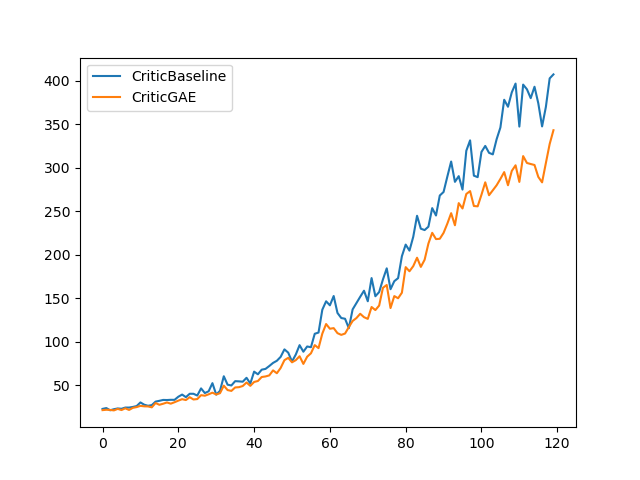
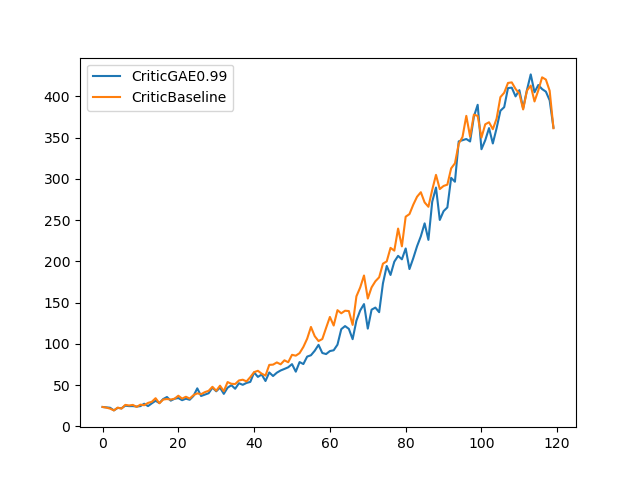
pg_td refactored

diff --git a/solutions/cartpole_solve_pg.py b/solutions/cartpole_solve_pg.py
@@ -1,32 +1,43 @@
 import gym
 import matplotlib.pyplot as plt
-from RL.solvers import MCPG, MCPGBaseline
+from RL.solvers import MCAgent, Actor, CriticBaseline, CriticGAE
 import numpy as np
-
+import torch.nn as nn
 
 env = gym.make("CartPole-v1")
 env._max_episode_steps = 1000
 fig = plt.figure()
-
 all_rewards = []
-for b in range(20):
-    agent = MCPG(env, lr=0.03, gamma=0.99, batch_size=100)
-    total_rewards = []
-    n_episodes = 100
-    for episode in range(n_episodes):
-        observation = env.reset()
-        done = False
-        reward = None
-        while not done:
-            action = agent.step(observation, reward)
-            observation, reward, done, info = env.step(action)
-        total_reward = agent.update(reward)
-        total_rewards.append(total_reward)
-        print(episode + 1, total_reward)
-    all_rewards.append(total_rewards)
-env.close()
-mean_results = np.mean(np.stack(all_rewards), axis=0)
-plt.plot(mean_results, label=agent.name)
+
+n_inputs = env.observation_space.shape[0]
+n_outputs = env.action_space.n
+for c in [CriticGAE, CriticBaseline]:
+    for b in range(50):
+        actor = Actor(n_inputs, n_outputs)
+        # critic = CriticGAE(n_inputs, gae=0.92)
+        critic = c(n_inputs)
+        agent = MCAgent(
+            actor, critic, alr=0.03, clr=0.1, batch_size=100, normalize=False
+        )
+        total_rewards = []
+        n_episodes = 120
+        for episode in range(n_episodes):
+            observation = env.reset()
+            done = False
+            reward = None
+            rewards = []
+            while not done:
+                action = agent.step(observation, reward)
+                observation, reward, done, info = env.step(action)
+                rewards.append(reward)
+            agent.step(observation, reward, done)
+            total_reward = sum(rewards)
+            total_rewards.append(total_reward)
+            print(episode + 1, total_reward)
+        all_rewards.append(total_rewards)
+    mean_results = np.mean(np.stack(all_rewards), axis=0)
+    plt.plot(mean_results, label=str(agent))
 plt.legend()
 plt.show()
-# fig.savefig("mcpgbaseline.png")
+fig.savefig("gae_bl_comp_2.png")
+env.close()

diff --git a/RL/solvers/policy_grad.py b/RL/solvers/policy_grad.py
@@ -157,8 +157,11 @@ class CriticBaseline(Critic):
 
 class CriticTD(CriticBaseline):
     def __init__(self, *args, td=5, **kwargs):
-        super.__init__(*args, **kwargs)
+        super().__init__(*args, **kwargs)
         self.tdlen = td + 1
+
+    def __str__(self):
+        return self.__class__.__name__ + str(self.tdlen - 1)
 
     def forward(self):
         end = self.tdlen
@@ -166,17 +169,19 @@ class CriticTD(CriticBaseline):
         with torch.no_grad():
             while end < len(self.rewards):
                 r = self.rewards[end - self.tdlen : end]
-                G = self.get_summed_rs(r)
+                R = self.get_summed_rs(r)
                 V = self.value(self.obs[end])
-                returns.append(G + V.item())
+                returns.append(R + V.item())
                 end += 1
-        self.rewards = self.rewards[-min(self.tdlen, len(self.rewards)) :]
-        end_returns = super().get_return()
+        end_returns = self.get_tail_rewards()
         if returns:
             start_returns = torch.tensor(returns)
-            return torch.cat((start_returns, end_returns))
+            G = torch.cat((start_returns, end_returns))
         else:
-            return end_returns
+            G = end_returns
+        obs = torch.stack(self.obs)
+        V = self.value(obs).view(-1)
+        return G - V
 
     def get_summed_rs(self, rewards):
         R = 0.0
@@ -184,11 +189,20 @@ class CriticTD(CriticBaseline):
             R = r + (R * self.gamma)
         return R
 
+    def get_tail_rewards(self):
+        rewards = self.rewards[-min(self.tdlen, len(self.rewards)) :]
+        critic = Critic()
+        critic.rewards = rewards
+        return critic()
+
 
 class CriticGAE(CriticBaseline):
     def __init__(self, *args, gae=0.92, **kwargs):
         super().__init__(*args, **kwargs)
         self.gae = gae
+
+    def __str__(self):
+        return self.__class__.__name__ + str(self.gae)
 
     def forward(self):
         obs = torch.stack(self.obs)

diff --git a/solutions/cartpole_solve_td.py b/solutions/cartpole_solve_td.py
@@ -1,6 +1,6 @@
 import gym
 import matplotlib.pyplot as plt
-from RL.solvers import A2C, MCPGBaseline, MCPG, Agent, TDAgent
+from RL.solvers import MCAgent, Actor, CriticTD
 import numpy as np
 import torch.nn as nn
 
@@ -8,12 +8,19 @@ env = gym.make("CartPole-v1")
 env._max_episode_steps = 1000
 fig = plt.figure()
 all_rewards = []
-for td in [0, 3, 5, 10, 20, 500]:
+
+n_inputs = env.observation_space.shape[0]
+n_outputs = env.action_space.n
+for c in [0, 5, 10, 50, 1000]:
     for b in range(20):
-        # agent = Agent(env)
-        agent = TDAgent(env, gamma=0.99, td=td)
+        actor = Actor(n_inputs, n_outputs)
+        # critic = CriticGAE(n_inputs, gae=0.92)
+        critic = CriticTD(n_inputs, td=c)
+        agent = MCAgent(
+            actor, critic, alr=0.03, clr=0.1, batch_size=100, normalize=False
+        )
         total_rewards = []
-        n_episodes = 100
+        n_episodes = 120
         for episode in range(n_episodes):
             observation = env.reset()
             done = False
@@ -23,14 +30,14 @@ for td in [0, 3, 5, 10, 20, 500]:
                 action = agent.step(observation, reward)
                 observation, reward, done, info = env.step(action)
                 rewards.append(reward)
-            agent.update(reward)
+            agent.step(observation, reward, done)
             total_reward = sum(rewards)
             total_rewards.append(total_reward)
             print(episode + 1, total_reward)
         all_rewards.append(total_rewards)
     mean_results = np.mean(np.stack(all_rewards), axis=0)
-    plt.plot(mean_results, label="TD_" + str(td))
+    plt.plot(mean_results, label=str(agent))
 plt.legend()
 plt.show()
-fig.savefig("pgtdcomp.png")
+fig.savefig("td_comp.png")
 env.close()

diff --git a/solutions/cart_pole_gae.py b/solutions/cart_pole_gae.py
@@ -11,11 +11,11 @@ all_rewards = []
 
 n_inputs = env.observation_space.shape[0]
 n_outputs = env.action_space.n
-for c in (CriticBaseline, CriticGAE):
-    for b in range(60):
+for c in [0.5, 0.8, 0.92, 0.99]:
+    for b in range(20):
         actor = Actor(n_inputs, n_outputs)
         # critic = CriticGAE(n_inputs, gae=0.92)
-        critic = c(n_inputs)
+        critic = CriticGAE(n_inputs, gae=c)
         agent = MCAgent(
             actor, critic, alr=0.03, clr=0.1, batch_size=100, normalize=False
         )
@@ -39,5 +39,5 @@ for c in (CriticBaseline, CriticGAE):
     plt.plot(mean_results, label=str(agent))
 plt.legend()
 plt.show()
-fig.savefig("gae_bl_comp.png")
+fig.savefig("gae_comp.png")
 env.close()

diff --git a/RL/solvers/__init__.py b/RL/solvers/__init__.py
@@ -9,5 +9,6 @@ from .policy_grad import (
     Critic,
     CriticBaseline,
     CriticGAE,
+    CriticTD,
 )
 from .dqn import DQN, DQNReplay
